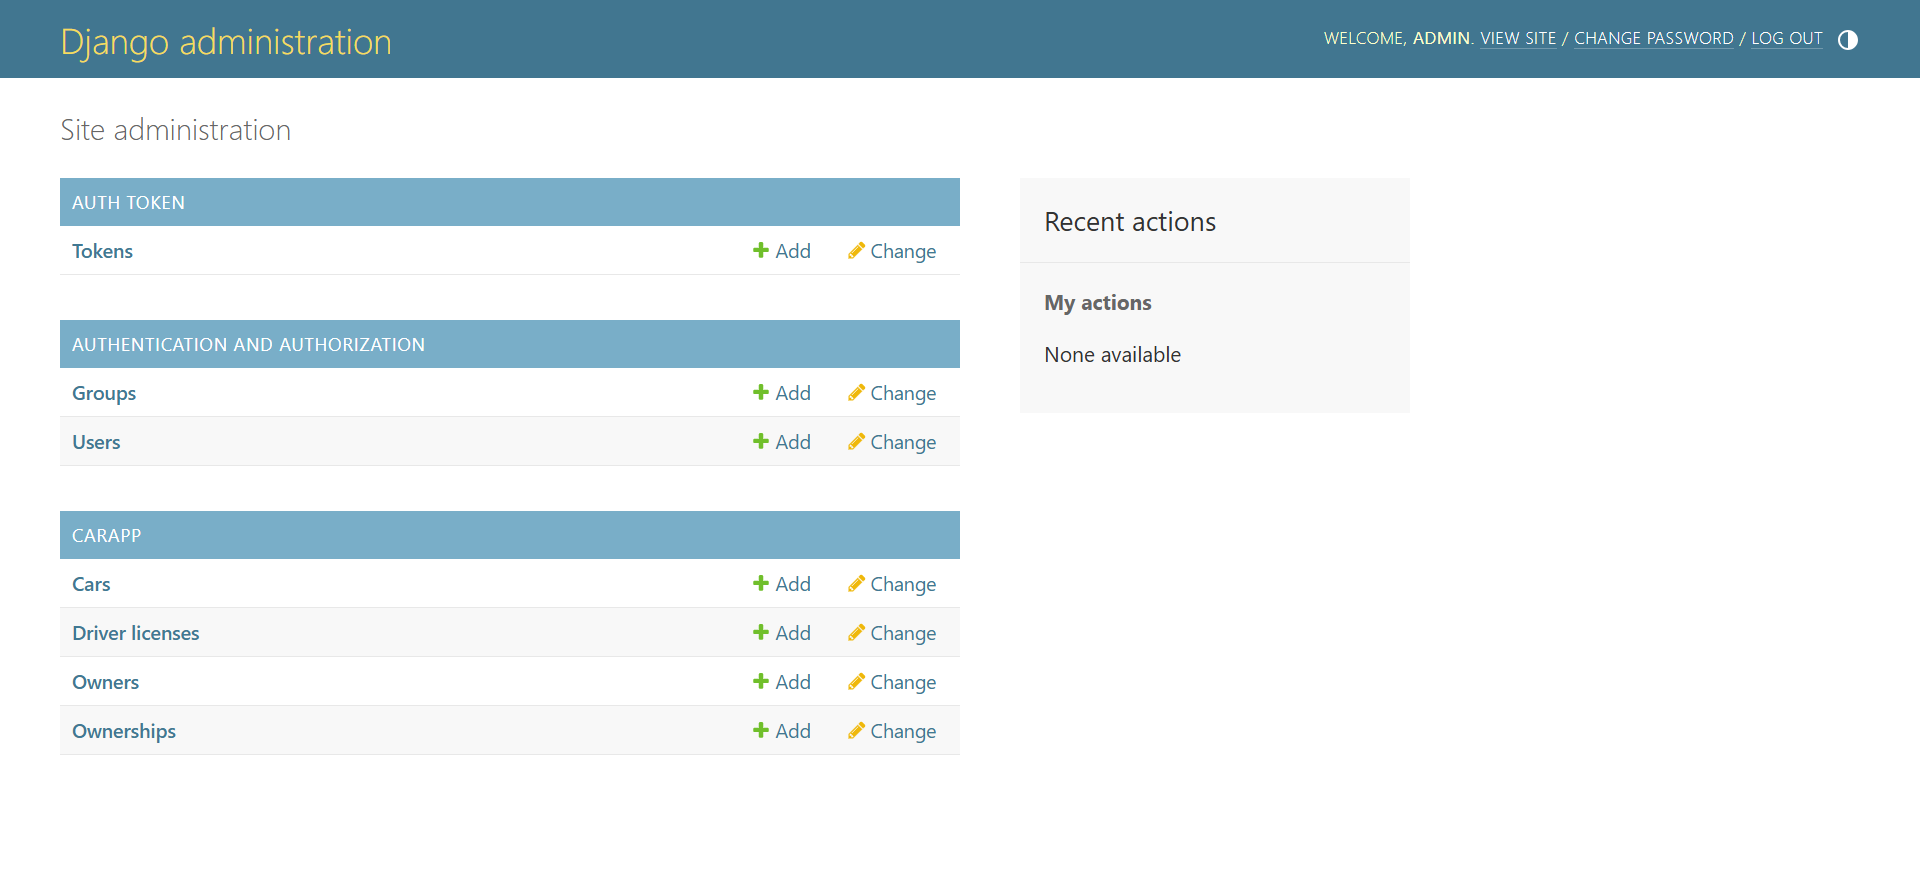
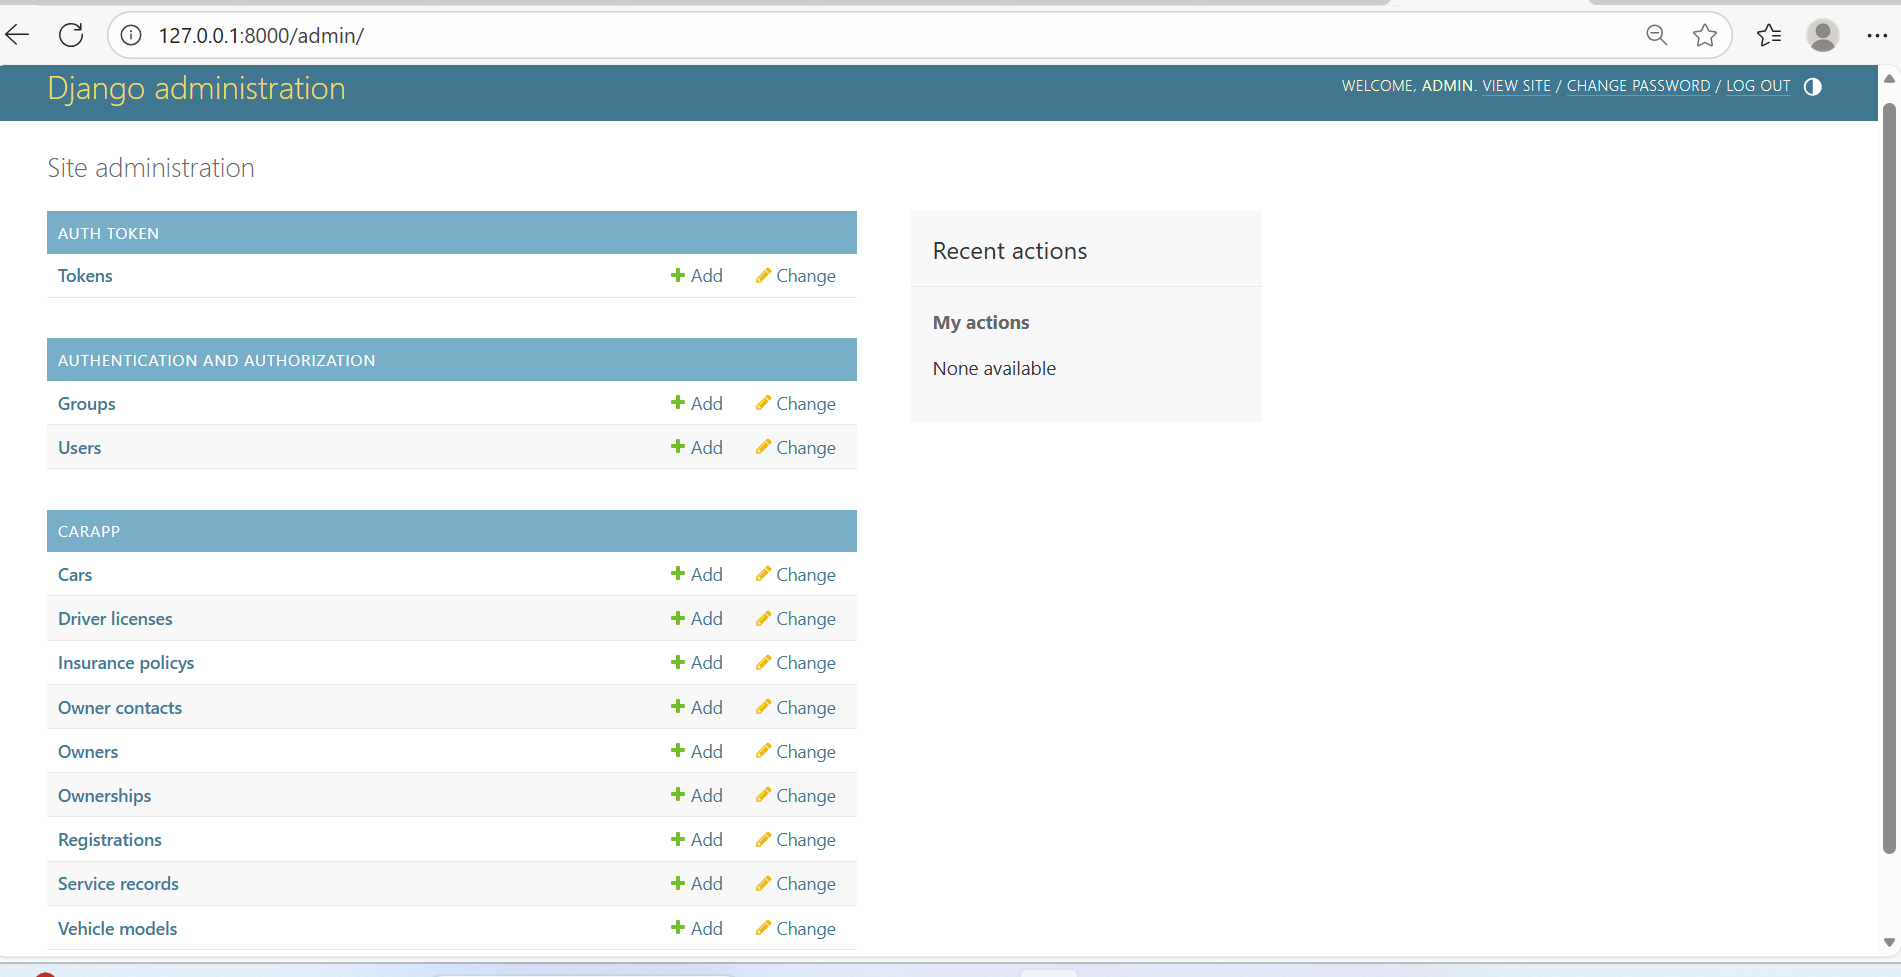
update docs

diff --git a/student/К3341/Саид_Наваф/Lr3/docs/api_endpoints.md b/student/К3341/Саид_Наваф/Lr3/docs/api_endpoints.md
@@ -1,91 +1,71 @@
-# API — список эндпойнтов и примеры
+# API endpoints (ЛР3, обновлённые)
 
-Базовый префикс API: `/api/`
+Базовый префикс: `/api/` — при регистрации router в `carApp/urls.py`.
 
-Аутентификация:
-- Регистрация (Djoser): `POST /auth/users/`
-- Получение JWT-токена: `POST /api/token/`  (получение access/refresh)
-- Обновление токена: `POST /api/token/refresh/`
-- Заголовок авторизации для запросов: `Authorization: Bearer <ACCESS_TOKEN>`
+Аутентификация
+- POST /api/token/  
+  Тело: `{ "username": "...", "password": "..." }`  
+  Ответ: `{ "access": "...", "refresh": "..." }`
 
-Схема OpenAPI:
-- JSON схема: `GET /api/schema/`
-- Swagger UI: `GET /api/docs/swagger/`
-- ReDoc: `GET /api/docs/redoc/`
+- POST /api/token/refresh/  
+  Тело: `{ "refresh": "..." }`  
+  Ответ: `{ "access": "..." }`
 
-Основные эндпойнты (carApp):
+Основные ресурсы и примеры
 
-Owners:
-- GET `/api/owners/` — список владельцев, в ответе вложены driver_license и ownerships->car
-- POST `/api/owners/` — создать владельца (можно вложить driver_license)
-  Пример тела (JSON):
-  ```json
-  {
-    "first_name": "Ivan",
-    "last_name": "Ivanov",
-    "date_of_birth": "1985-05-10",
-    "driver_license": {
-      "license_number": "DL1001",
-      "license_type": "B",
-      "issue_date": "2011-01-01"
-    }
-  }
-  ```
-- GET `/api/owners/<id>/` — детальная информация о владельце (включая license и машины)
-- PUT/PATCH `/api/owners/<id>/` — обновление владельца и/или его license
-- DELETE `/api/owners/<id>/` — удаление владельца
+Owners
+- GET /api/owners/  
+  Ответ: список владельцев (возможна пагинация)
+- POST /api/owners/  
+  Тело: `{ "first_name": "...", "last_name": "...", "date_of_birth": "YYYY-MM-DD", "city": "..." }`
+- GET /api/owners/{id}/  
+  Детальный вывод включает вложенные объекты:
+  - driver_license
+  - contacts (OwnerContact[])
+  - ownerships (Ownership[] — каждый элемент может содержать сведения о `car`)
+  Пример: см. `docs/images/owner_detail_swagger.png`
 
-Cars:
-- GET `/api/cars/` — список автомобилей
-- POST `/api/cars/` — создать автомобиль
-- GET `/api/cars/<id>/` — информация об автомобиле
-- PUT/PATCH `/api/cars/<id>/` — редактирование
-- DELETE `/api/cars/<id>/` — удаление
+Cars
+- GET /api/cars/
+- POST /api/cars/
+- GET /api/cars/{id}/  — детально (vin, registration_number, vehicle_model и т.д.)
 
-Ownerships:
-- POST `/api/ownerships/create/` — создать запись владения (owner id, car id, даты)
-  Пример тела:
-  ```json
-  {
-    "owner": 1,
-    "car": 2,
-    "date_start": "2023-01-01",
-    "date_end": null
-  }
-  ```
-  При попытке создать перекрывающееся владение API вернёт ошибку валидации.
+VehicleModel
+- GET /api/vehicle-models/
+- POST /api/vehicle-models/
 
-Пример успешного ответа GET `/api/owners/1/` (фрагмент):
-```json
-{
-  "id": 1,
-  "first_name": "Ivan",
-  "last_name": "Ivanov",
-  "date_of_birth": "1985-05-10",
-  "driver_license": {
-    "id": 1,
-    "license_number": "DL1001",
-    "license_type": "B",
-    "issue_date": "2011-01-01"
-  },
-  "ownerships": [
-    {
-      "id": 1,
-      "car": {
-        "id": 1,
-        "make": "Toyota",
-        "model": "Camry",
-        "color": "red",
-        "vin": "VIN0001",
-        "reg_number": "A111AA"
-      },
-      "date_start": "2010-01-01",
-      "date_end": "2011-01-01"
-    }
-  ]
-}
-```
+OwnerContact
+- GET /api/contacts/
+- POST /api/contacts/
 
-Примечания:
-- Для тестирования защищённых эндпойнтов: сначала получите access token, затем в заголовке `Authorization: Bearer <token>` выполняйте запросы.
-- Swagger/UI позволяет выпробовать все эндпойнты прямо из браузера.
+Ownership
+- GET /api/ownerships/
+- POST /api/ownerships/  
+  Тело: `{ "owner": <id>, "car": <id>, "date_start": "YYYY-MM-DD", "date_end": "YYYY-MM-DD" }`  
+  Валидация: сервер проверяет, что для той же пары owner+car нет пересекающихся периодов. При ошибке вернёт HTTP 400 и сообщение.
+
+InsurancePolicy
+- GET /api/insurance/
+- POST /api/insurance/  (policy_number unique)
+
+ServiceRecord
+- GET /api/services/
+- POST /api/services/
+
+Registration
+- GET /api/registrations/
+- POST /api/registrations/
+
+Примеры curl
+- Получить owner detail:
+  curl -H "Authorization: Bearer <token>" http://127.0.0.1:8000/api/owners/1/
+- Создать ownership:
+  curl -X POST -H "Content-Type: application/json" -H "Authorization: Bearer <token>" -d '{"owner":1,"car":2,"date_start":"2024-01-01"}' http://127.0.0.1:8000/api/ownerships/
+
+Формат ошибок
+- Ошибки валидации: HTTP 400, тело с полями ошибок (DRF default).
+
+Примечание по пагинации
+- Если включена пагинация в DRF, ответ списка будет иметь структуру:
+  `{ "count": ..., "next": "...", "previous": "...", "results": [ ... ] }`
+  Компоненты фронтенда в проекте обрабатывают оба варианта (`res.data.results || res.data`).

diff --git a/student/К3341/Саид_Наваф/Lr3/docs/model.md b/student/К3341/Саид_Наваф/Lr3/docs/model.md
@@ -1,60 +1,78 @@
-# Модель данных
+# Модель данных (обновлённая для ЛР3)
 
-Диаграмма ER (краткое описание):
-- Owner — владелец
-  - id (PK)
-  - first_name
-  - last_name
-  - date_of_birth
-- DriverLicense — водительское удостоверение (OneToOne → Owner)
-  - id (PK)
-  - owner_id (FK → Owner)
-  - license_number (UNIQUE)
-  - license_type
-  - issue_date
-- Car — автомобиль
-  - id (PK)
-  - make
-  - model
-  - color
-  - vin (UNIQUE)
-  - reg_number
-- Ownership — владение (ассоциативная сущность Owner ⇄ Car)
-  - id (PK)
-  - owner_id (FK → Owner)
-  - car_id (FK → Car)
-  - date_start
-  - date_end (nullable)
+Ниже описаны основные сущности и их поля после обновления схемы.
 
-Ограничения и правила:
-- DriverLicense.license_number — уникален.
-- Car.vin — уникален.
-- Для одной пары (owner, car) периоды владения не должны пересекаться — это проверяется в модели Ownership (валидация в clean/save).
-- Для быстрых запросов используются related_name:
-  - Owner.ownerships (все владения владельца)
-  - Car.ownerships (все владения автомобиля)
-  - Owner.driver_license (OneToOne)
+![DB schema](images/db_schema.png)
 
-Пример фрагмента моделей (Django ORM):
-```python
-class Owner(models.Model):
-    first_name = models.CharField(max_length=100)
-    last_name = models.CharField(max_length=100)
-    date_of_birth = models.DateField(null=True, blank=True)
+Основные сущности
 
-class DriverLicense(models.Model):
-    owner = models.OneToOneField(Owner, related_name="driver_license", on_delete=models.CASCADE)
-    license_number = models.CharField(max_length=50, unique=True)
-    issue_date = models.DateField()
+- Owner (владелец)
+  - id : int (PK)
+  - first_name, last_name : varchar
+  - date_of_birth : date (nullable) — добавлено
+  - city : varchar (nullable)
+  - created_at, updated_at : datetime
+  - Связи: 1 → * OwnerContact, 1 → 1 DriverLicense, 1 → * Ownership
 
-class Car(models.Model):
-    make = models.CharField(max_length=100)
-    model = models.CharField(max_length=100)
-    vin = models.CharField(max_length=50, unique=True)
+- OwnerContact
+  - id : int (PK)
+  - owner : FK → Owner
+  - type : varchar (phone/email/address)
+  - value : varchar
+  - is_primary : boolean
 
-class Ownership(models.Model):
-    owner = models.ForeignKey(Owner, related_name="ownerships", on_delete=models.CASCADE)
-    car = models.ForeignKey(Car, related_name="ownerships", on_delete=models.CASCADE)
-    date_start = models.DateField()
-    date_end = models.DateField(null=True, blank=True)
-```
+- DriverLicense
+  - id : int (PK)
+  - owner : OneToOne → Owner
+  - license_number : varchar UNIQUE
+  - license_type : varchar (nullable) — возможно добавлено
+  - issue_date : date
+  - issued_by, notes : text (nullable)
+
+- VehicleModel
+  - id : int (PK)
+  - manufacturer : varchar
+  - model : varchar
+  - segment, year_from, year_to : optional
+
+- Car
+  - id : int (PK)
+  - vehicle_model : FK → VehicleModel (nullable)
+  - vin : varchar UNIQUE
+  - registration_number : varchar (nullable)
+  - color, year : optional
+  - Примечание: предыдущие поля make/reg_number могли быть переименованы в vehicle_model.via и registration_number.
+
+- Ownership
+  - id : int (PK)
+  - owner : FK → Owner
+  - car : FK → Car
+  - date_start : date
+  - date_end : date (nullable)
+  - notes : text (nullable)
+  - Ограничение: UniqueConstraint(owner, car, date_start)
+  - Валидация: периоды владения для одной пары (owner, car) не должны пересекаться. Реализовано в clean()/save() модели.
+
+- InsurancePolicy
+  - id : int (PK)
+  - car : FK → Car
+  - policy_number : varchar UNIQUE
+  - insurer : varchar
+  - date_start, date_end : date
+  - sum_insured : decimal (nullable)
+
+- ServiceRecord
+  - id : int (PK)
+  - car : FK → Car
+  - date : date
+  - mileage : int (nullable)
+  - description : text
+
+- Registration
+  - id : int (PK)
+  - car : FK → Car
+  - reg_number : varchar
+  - authority : varchar (nullable)
+  - valid_from : date
+  - valid_to : date (nullable)
+
